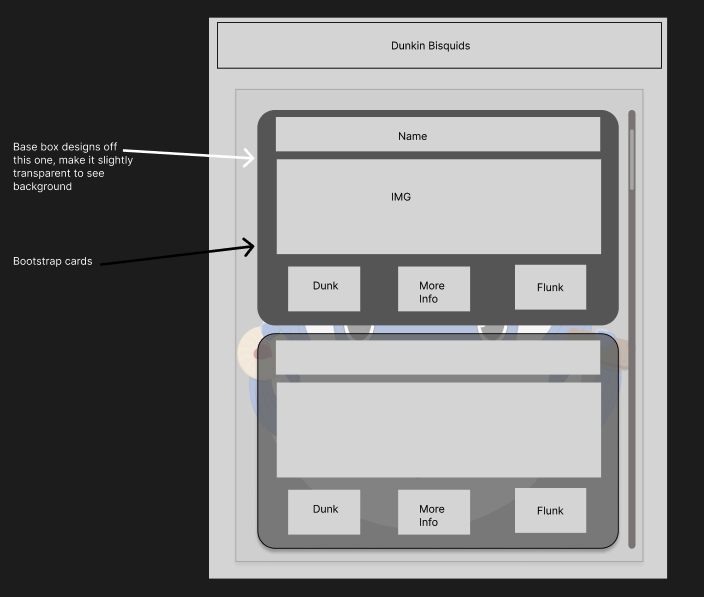
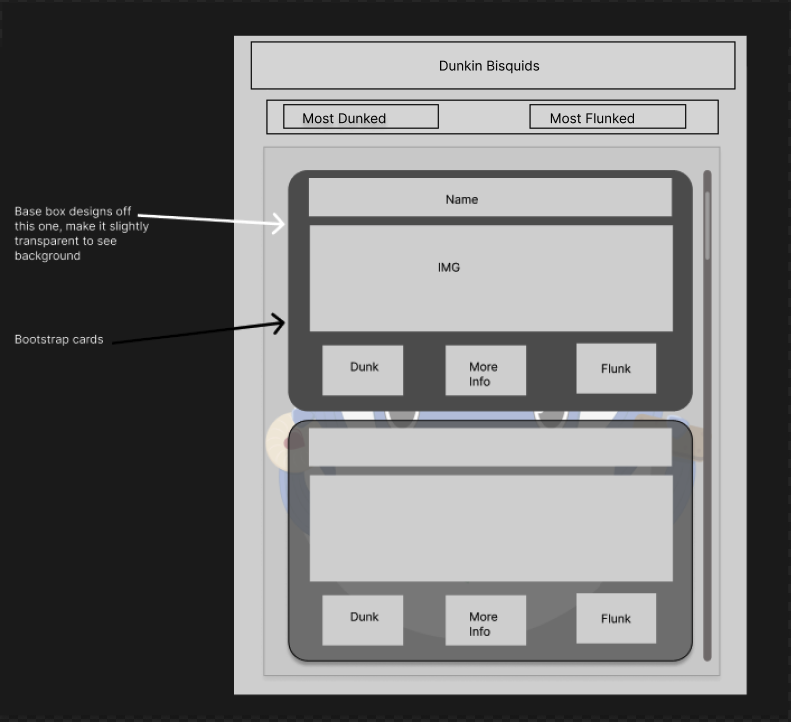
added hard coded most dunked/flunked, styled the section and updated the wireframes

diff --git a/index.php b/index.php
@@ -1,5 +1,6 @@
 <?php
 require_once './vendor/autoload.php';
+
 use BisquidsTin\ViewHelpers\BiscuitViewHelper;
 use BisquidsTin\Utilities\DB;
 use BisquidsTin\Hydrators\BiscuitHydrator;
@@ -10,26 +11,38 @@ $biscuitDisplay = BiscuitViewHelper::displayAllBiscuits($biscuits);
 
 ?>
 <html lang="en-gb">
-    <head>
-        <title>Dunkin' Bisquids</title>
-        <link href="https://cdn.jsdelivr.net/npm/bootstrap@5.2.1/dist/css/bootstrap.min.css" rel="stylesheet" integrity="sha384-iYQeCzEYFbKjA/T2uDLTpkwGzCiq6soy8tYaI1GyVh/UjpbCx/TYkiZhlZB6+fzT" crossorigin="anonymous">
-        <link rel="stylesheet" href="styles.css">
-        <meta name="viewport" content="width=device-width, initial-scale=1.0">
-    </head>
-    <body>
-        <nav class="container-fluid border-bottom bg-white sticky-top" >
-            <div class="row">
-                <h1 class="text-center title py-lg-4 py-2">Dunkin' Bisquids</h1>
-            </div>
-        </nav>
-        <main class="d-flex justify-content-center">
-            <img class="logoImg" src="./design/Dunkin_Donut_Logo.png" 
-alt="Dunkin_Bisquids_Logo">
+
+<head>
+    <title>Dunkin' Bisquids</title>
+    <link href="https://cdn.jsdelivr.net/npm/bootstrap@5.2.1/dist/css/bootstrap.min.css" rel="stylesheet" integrity="sha384-iYQeCzEYFbKjA/T2uDLTpkwGzCiq6soy8tYaI1GyVh/UjpbCx/TYkiZhlZB6+fzT" crossorigin="anonymous">
+    <link rel="stylesheet" href="styles.css">
+    <meta name="viewport" content="width=device-width, initial-scale=1.0">
+</head>
+
+<body>
+    <nav class="container-fluid border-bottom bg-white sticky-top">
+        <div class="row">
+            <h1 class="text-center title py-lg-4 py-2">Dunkin' Bisquids</h1>
+        </div>
+    </nav>
+    <main class="d-flex justify-content-center">
+        <img class="logoImg" src="./design/Dunkin_Donut_Logo.png" alt="Dunkin_Bisquids_Logo">
+        <div class="d-flex flex-column">
+            <section class="d-flex border-bottom justify-content-around">
+                <div class="my-2">
+                    <h3>Most Dunked: Fig Rolls</h3>
+                </div>
+                <div class="my-2">
+                    <h3>Most Flunked: Party Rings</h3>
+                </div>
+            </section>
             <section class="container">
                 <div class="row d-flex justify-content-center py-2">
                     <?= $biscuitDisplay ?>
                 </div>
             </section>
-        </main>
-    </body>
+        </div>
+    </main>
+</body>
+
 </html>
